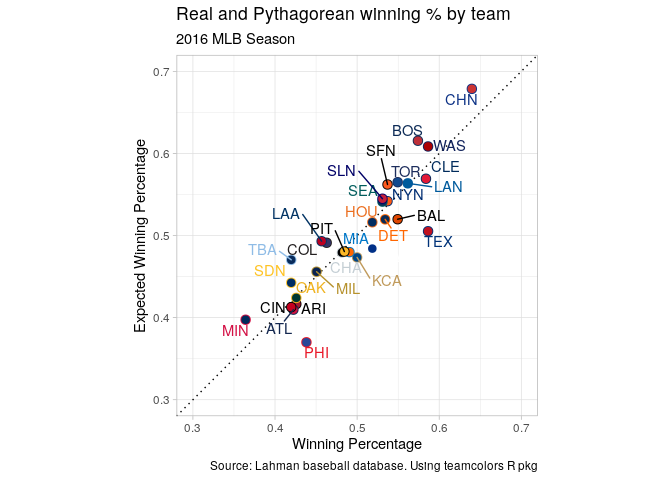
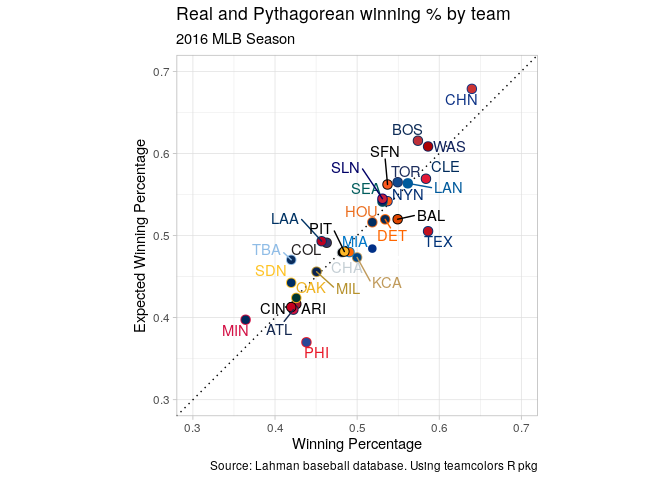
fixed team-specific color palettes

diff --git a/README.md b/README.md
@@ -38,16 +38,15 @@ head(teamcolors)
 ```
 
     ## # A tibble: 6 x 11
-    ##   name  league primary secondary tertiary quaternary division location
-    ##   <chr> <chr>  <chr>   <chr>     <chr>    <chr>      <chr>    <chr>   
-    ## 1 AFC … epl    #e62333 #000000   <NA>     <NA>       <NA>     AFC     
-    ## 2 Air … ncaa   #003087 #8A8D8F   #B1B3B3  #FFC72C    MWC      Air For…
-    ## 3 Akro… ncaa   #041E42 #A89968   <NA>     <NA>       MAC      Akron   
-    ## 4 Alab… ncaa   #9E1B32 #828A8F   #FFFFFF  <NA>       SEC      Alabama 
-    ## 5 Alba… ncaa   #461660 #EEB211   <NA>     <NA>       Am. East Albany  
-    ## 6 Anah… nhl    #010101 #a2aaad   #fc4c02  #85714d    Pacific  Anaheim 
-    ## # … with 3 more variables: mascot <chr>, sportslogos_name <chr>,
-    ## #   logo <chr>
+    ##   name  league primary secondary tertiary quaternary division location mascot
+    ##   <chr> <chr>  <chr>   <chr>     <chr>    <chr>      <chr>    <chr>    <chr> 
+    ## 1 AFC … epl    #e62333 #000000   <NA>     <NA>       <NA>     AFC      Bourn…
+    ## 2 Air … ncaa   #003087 #8A8D8F   #B1B3B3  #FFC72C    MWC      Air For… <NA>  
+    ## 3 Akro… ncaa   #041E42 #A89968   <NA>     <NA>       MAC      Akron    Zips  
+    ## 4 Alab… ncaa   #9E1B32 #828A8F   #FFFFFF  <NA>       SEC      Alabama  Crims…
+    ## 5 Alba… ncaa   #461660 #EEB211   <NA>     <NA>       Am. East Albany   (NY)  
+    ## 6 Anah… nhl    #010101 #a2aaad   #fc4c02  #85714d    Pacific  Anaheim  Ducks 
+    ## # … with 2 more variables: sportslogos_name <chr>, logo <chr>
 
 ## Show palettes
 
